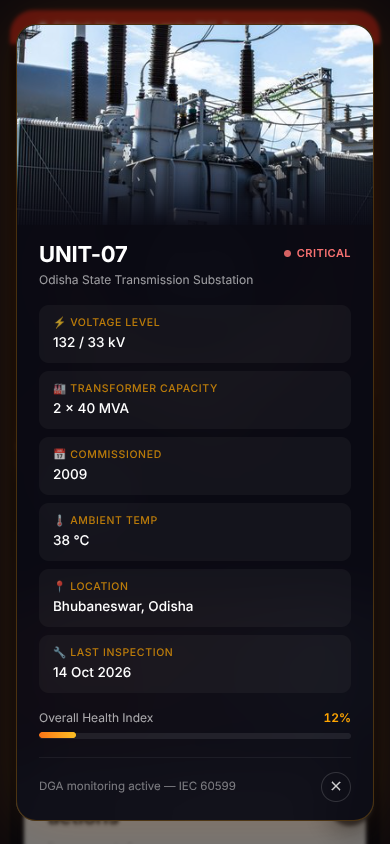
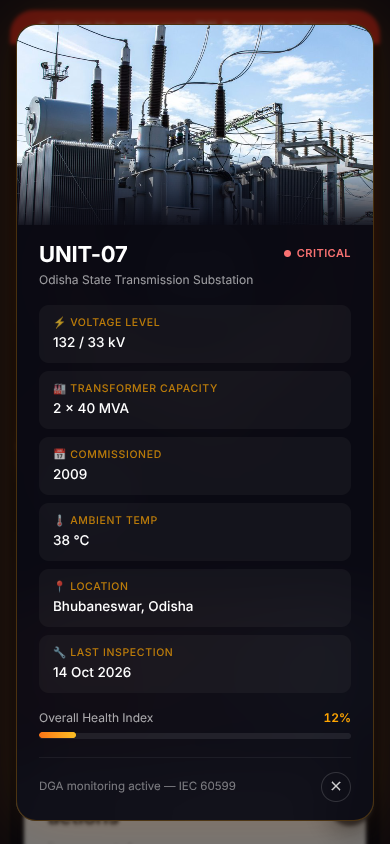
Use the substation transformer photo as the profile modal hero
Replaces the unverified Unsplash URLs with a 1200x500 crop of the unit's own transformer
photo (public/substation-hero.jpg, 117 KB), served by the site itself, so no remote image
or fallback chain is needed.

Claude-Session: https://claude.ai/code/session_01VKU37BCSg8w88hSPhGeEUr

Changed region(s): [[0.0308, 0.0308, 0.9538, 0.2773]]

diff --git a/src/ui/SubstationProfileModal.tsx b/src/ui/SubstationProfileModal.tsx
@@ -1,16 +1,11 @@
-import { useEffect, useRef, useState } from 'react'
+import { useEffect, useRef } from 'react'
 import { createPortal } from 'react-dom'
 import { AnimatePresence, motion } from 'framer-motion'
 import { useMonitor } from '../store/useMonitor'
 import type { ScenarioCode } from '../data/scenarios'
 
-// Hero image: remote Unsplash shots, then the dashboard's own transformer photo as a last resort
-// so the card never shows a broken image.
-const HERO_SOURCES = [
-  'https://images.unsplash.com/photo-1558618666-fcd25c85cd64?w=800&q=80',
-  'https://images.unsplash.com/photo-1497435334941-8c899ee9e8e9?w=800&q=80',
-  '/transformer.jpg',
-]
+// Hero image: a wide crop of the substation transformer photo (also used for the avatar).
+const HERO_SRC = '/substation-hero.jpg'
 
 // Nameplate data for the (simulated) unit.
 const STATS: [icon: string, label: string, value: string][] = [
@@ -41,7 +36,6 @@ export interface SubstationProfileModalProps {
 export default function SubstationProfileModal({ open, onClose, healthIndex }: SubstationProfileModalProps) {
   const code = useMonitor((s) => s.code)
   const status = STATUS[code]
-  const [hero, setHero] = useState(0)
   const panel = useRef<HTMLDivElement>(null)
   const closeBtn = useRef<HTMLButtonElement>(null)
 
@@ -108,13 +102,7 @@ export default function SubstationProfileModal({ open, onClose, healthIndex }: S
             className="relative max-h-[calc(100dvh-32px)] w-full max-w-[480px] overflow-y-auto overscroll-contain rounded-[20px] border border-[rgba(255,160,0,0.25)] bg-[rgba(10,10,20,0.92)] text-white shadow-[0_0_60px_rgba(255,120,0,0.15)] backdrop-blur-[24px]"
           >
             <div className="relative h-[200px] w-full overflow-hidden rounded-t-[20px] bg-gradient-to-br from-[#1a0a00] via-[#2d1500] to-[#1a0a00]">
-              <img
-                src={HERO_SOURCES[hero]}
-                crossOrigin="anonymous"
-                alt="UNIT-07 substation"
-                className="h-full w-full object-cover"
-                onError={() => setHero((h) => (h < HERO_SOURCES.length - 1 ? h + 1 : h))}
-              />
+              <img src={HERO_SRC} alt="UNIT-07 substation transformer" className="h-full w-full object-cover object-top" />
               <div className="absolute inset-x-0 bottom-0 h-[70px] bg-gradient-to-t from-[rgba(10,10,20,0.92)] to-transparent" aria-hidden="true" />
             </div>
 
